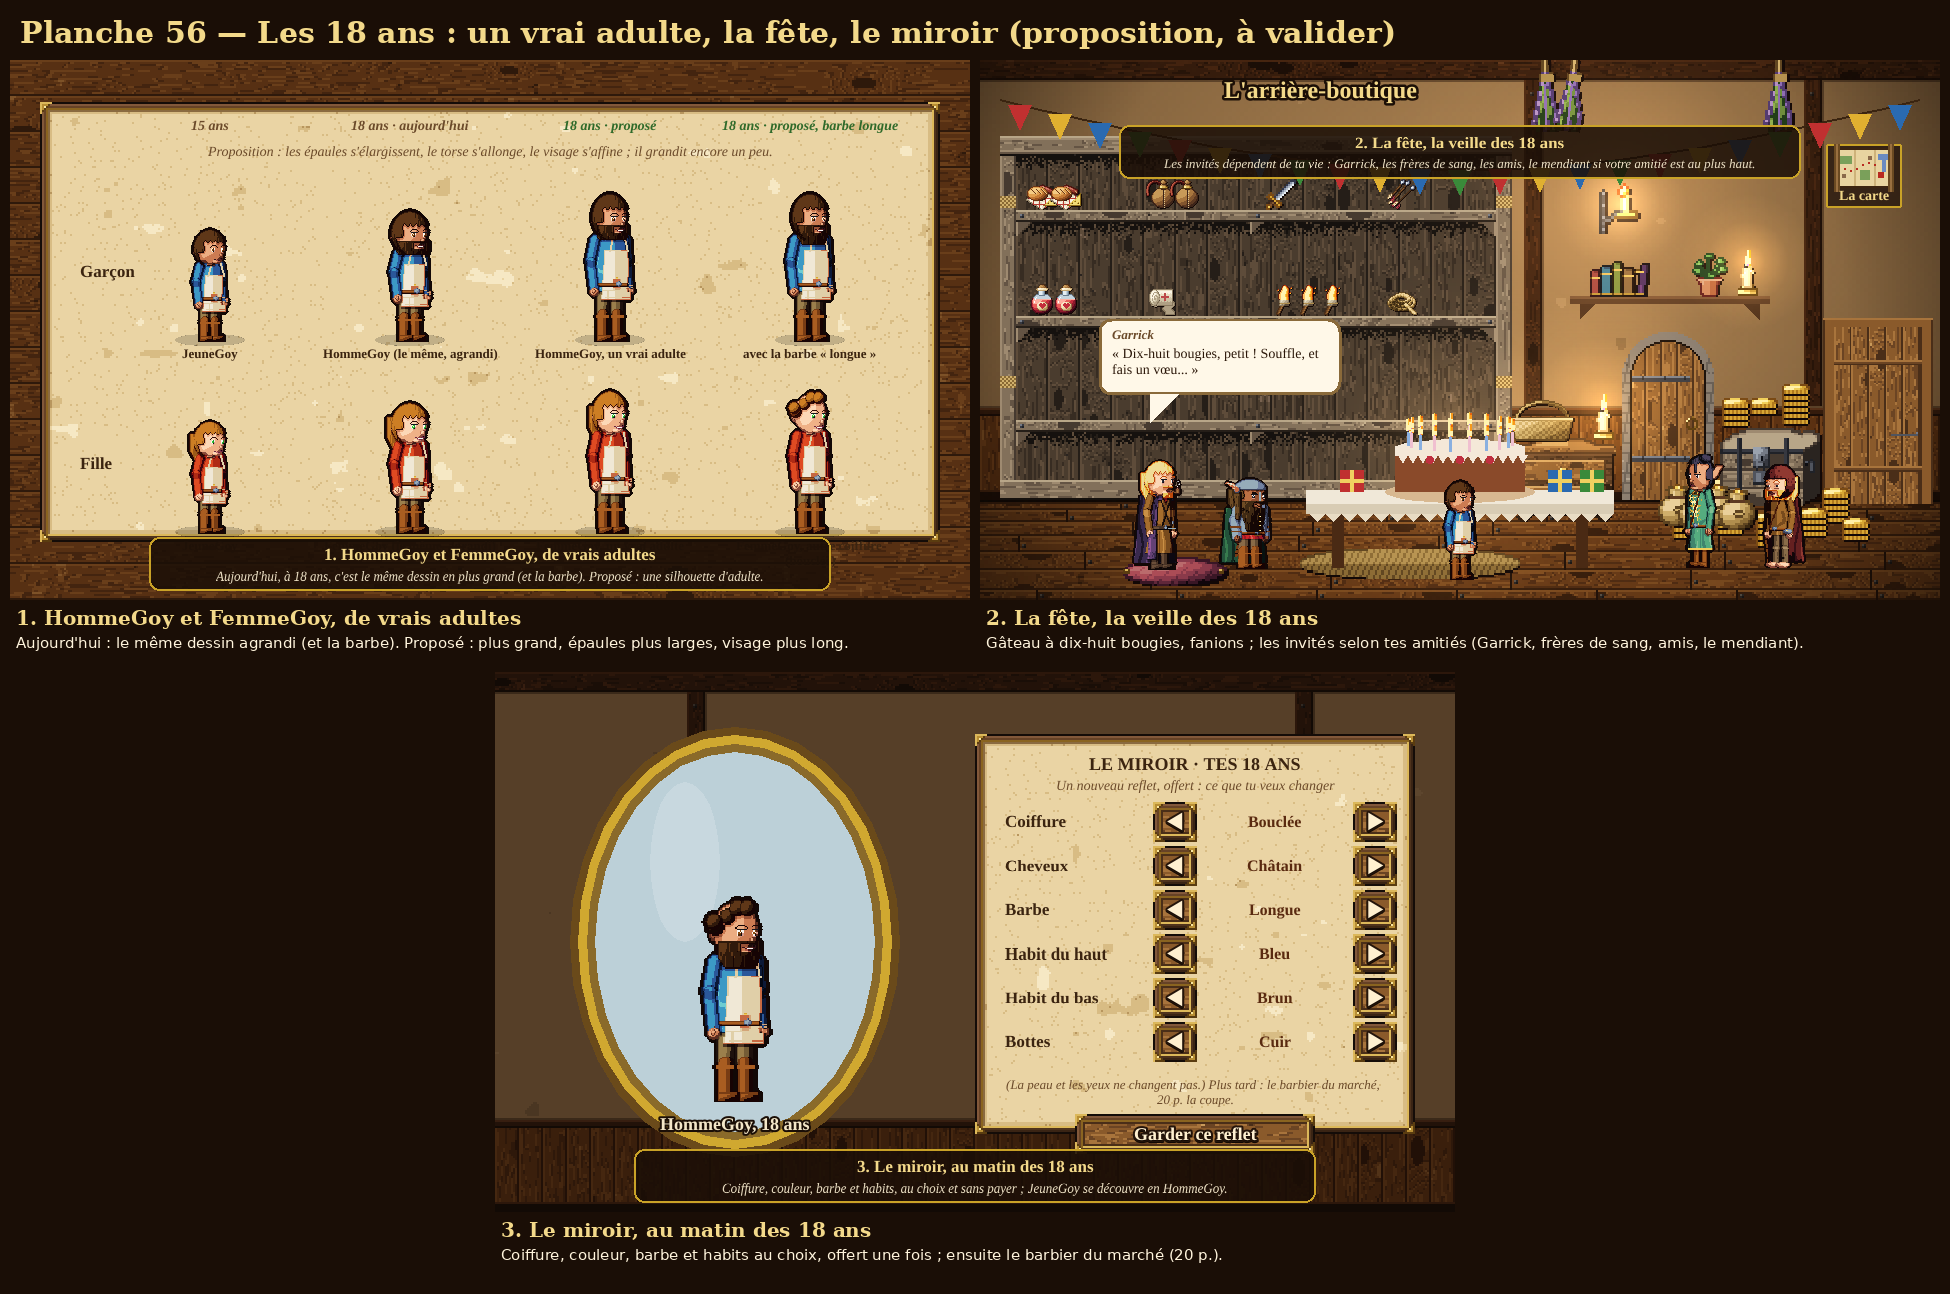
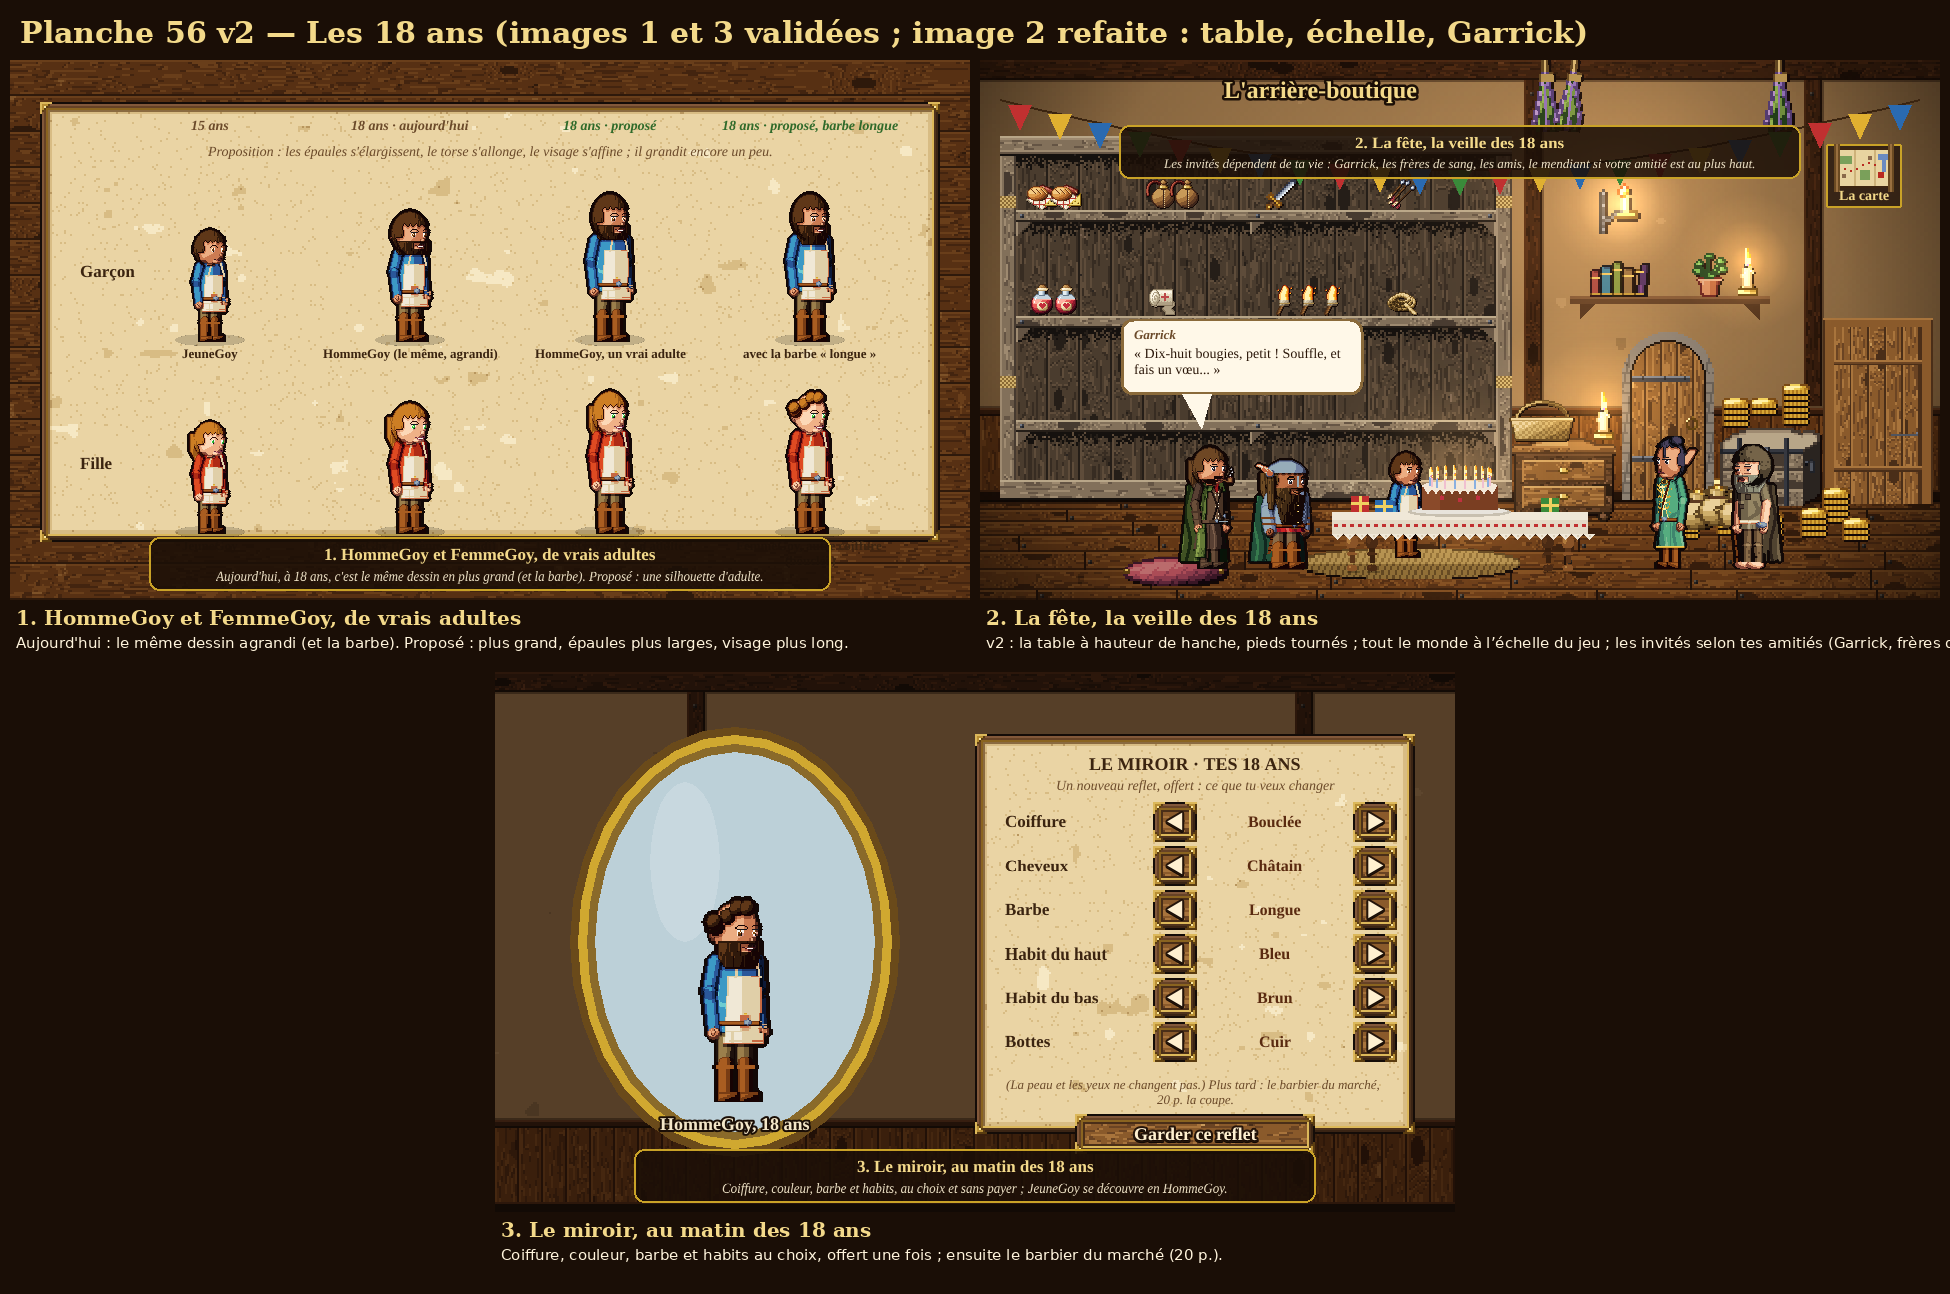
Planche 56 v2 (la fête refaite) ; GDD : réponses du joueur (personnalisation, 55, 56, mécénat, neutralité, fin neutre)
Claude-Session: https://claude.ai/code/session_018kbaP56NxxNMUzmj9EfKBC

Changed region(s): [[0.5538, 0.2473, 0.9231, 0.4637], [0.1231, 0.0, 0.8, 0.0309], [0.5231, 0.4946, 0.9231, 0.5255]]

diff --git a/docs/game-design.md b/docs/game-design.md
@@ -2734,3 +2734,22 @@ difficulté facile / normale / difficile pourra jouer là-dessus.
   joueur devient mécène), le Sage qui vient remercier au comptoir un joueur de lumière qui donne beaucoup, des
   récompenses **qui ne touchent pas à l'argent**, et peut-être **une retraite de lumière** à la fin ; **un autre
   système pour les neutres**. Proposition de Claude dans la conversation, en attente de réponse.
+
+### Réponses du joueur (planches 55 et 56, mécénat, neutralité, fin neutre)
+- **Personnalisation** : le nouvel adulte (homme et femme) est préféré. **Élargir la création** : beaucoup plus de
+  barbes, de coiffures, de couleurs (habits, chaussures, cheveux, barbes). L'ancienne barbe et la nouvelle restent
+  toutes deux au choix. Le joueur enverra des références de coupes pour s'en inspirer.
+- **Planche 55 validée** (« superbe ») : la tapissière, le carnet d'échantillons, les cinq styles.
+- **Planche 56** : images 1 (le vrai adulte) et 3 (le miroir) **validées** ; image 2 (la fête) **refaite en v2** : table
+  à hauteur de hanche avec des pieds tournés, invités à l'échelle du jeu, Garrick aux cheveux bruns.
+- **Le mécénat du Grand Sage (lumière) : validé** — le seuil, les récompenses sans argent (plaque des mécènes, visite
+  du Sage au comptoir, vitrail, titre, la retraite de lumière à la fin), **et en plus des changements de décor et des
+  choses qui bougent dans le monde** à mesure que le joueur donne. **La piste du secret validée** (où va vraiment
+  l'argent ?), en tenant compte de ce qui existe déjà (le Sage, ses secrets, le carnet des choses étranges).
+- **Le prix de la neutralité : validé**, avec **plus de répercussions sur l'environnement** du jeu.
+- **La fin neutre (vision du joueur)** : en fin de partie, **les Bannis sont rasés de la carte** après un nouvel
+  événement tragique : personne de ceux qui étaient sur place ne sait dire ce qui s'est passé, ni ne s'en souvient. **Le
+  Grand Sage, avec le Conseil, fait un discours** : une véritable tragédie, mais il faut aller de l'avant ; les terres des
+  Bannis ne sont pas maudites, au contraire, elles sont prêtes à accueillir de nouveaux peuples, « c'est le cycle de la
+  vie ». Le joueur neutre **paie le prix de n'avoir pas pris parti**, et **ne comprend pas toute l'histoire s'il n'a pas
+  vraiment cherché** (les secrets, le carnet). À peaufiner ensemble.
